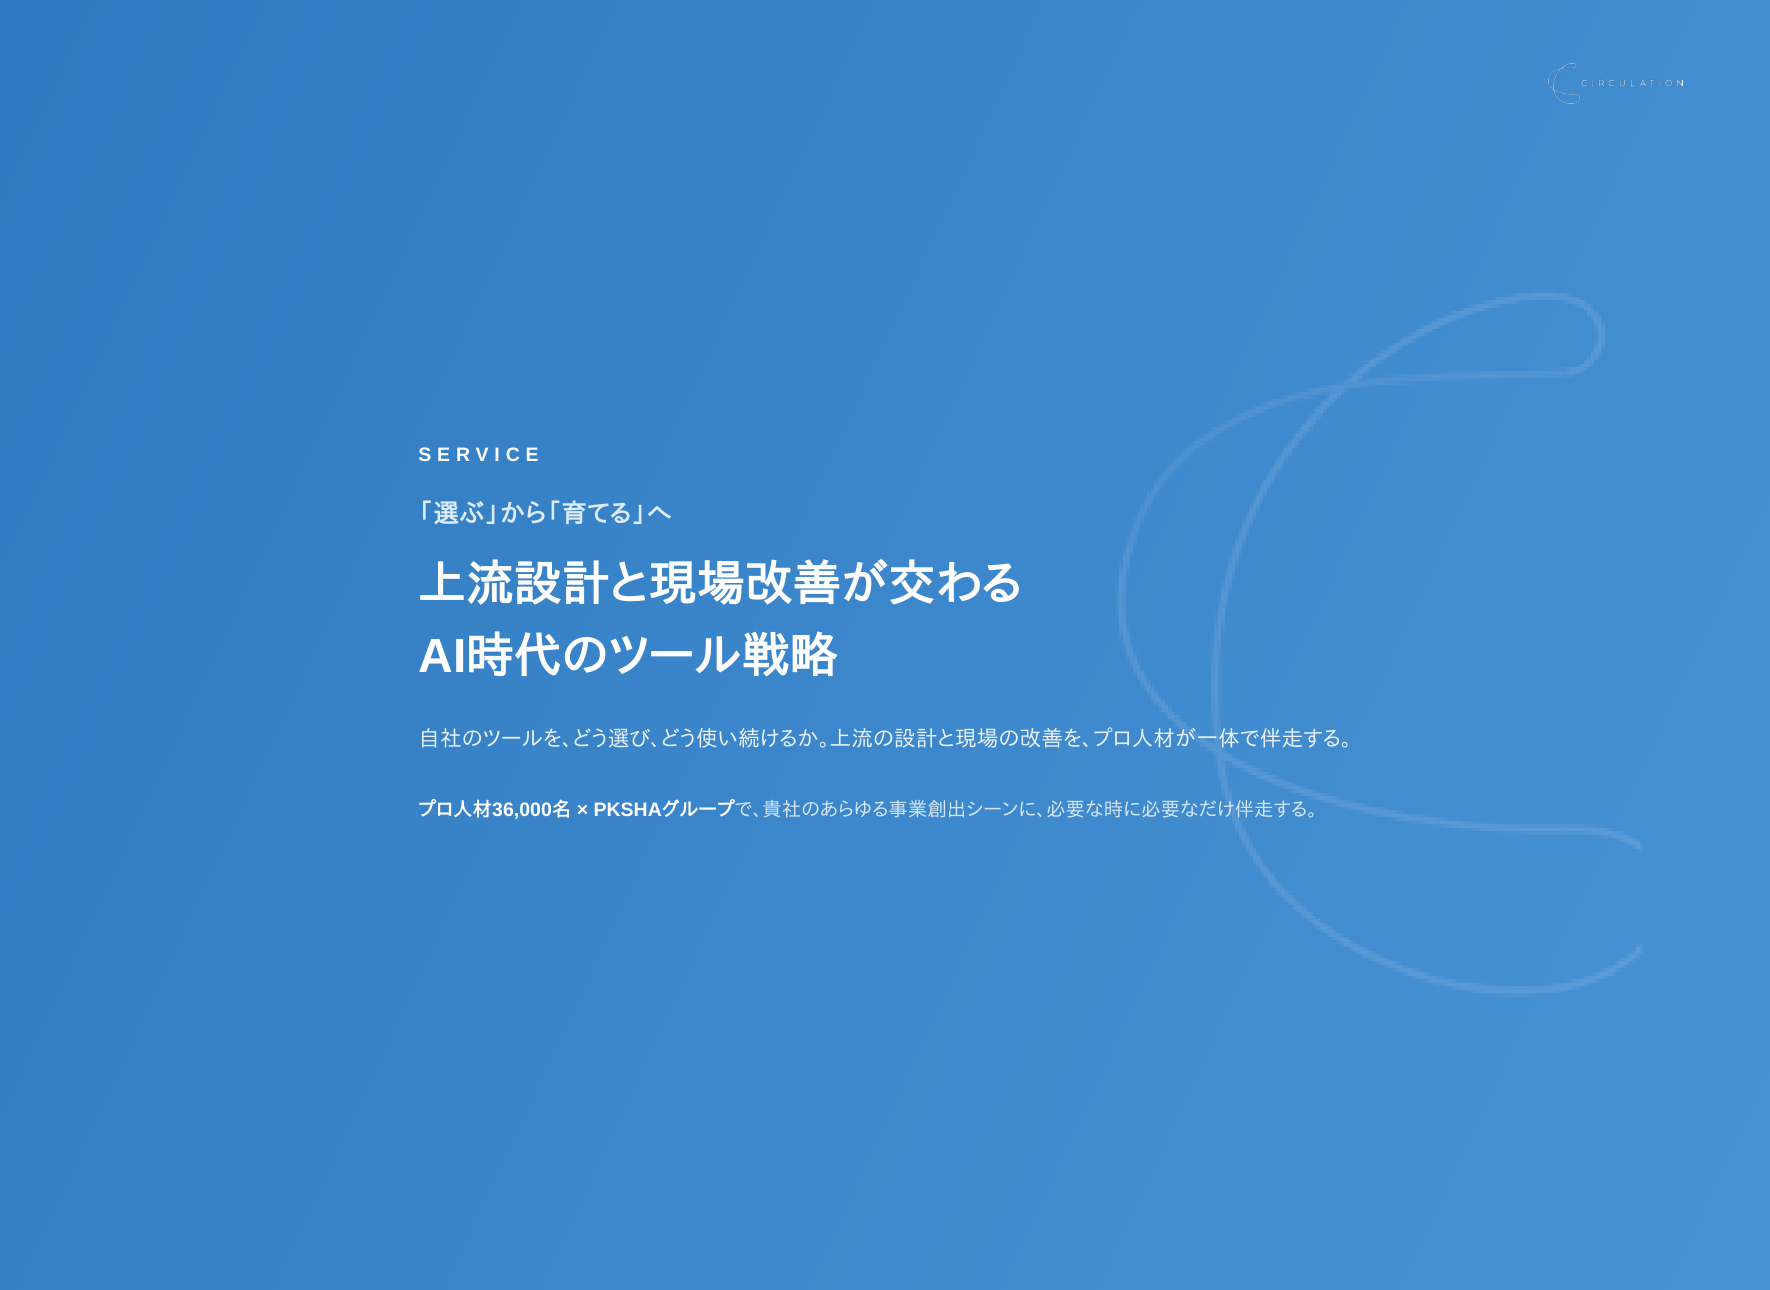
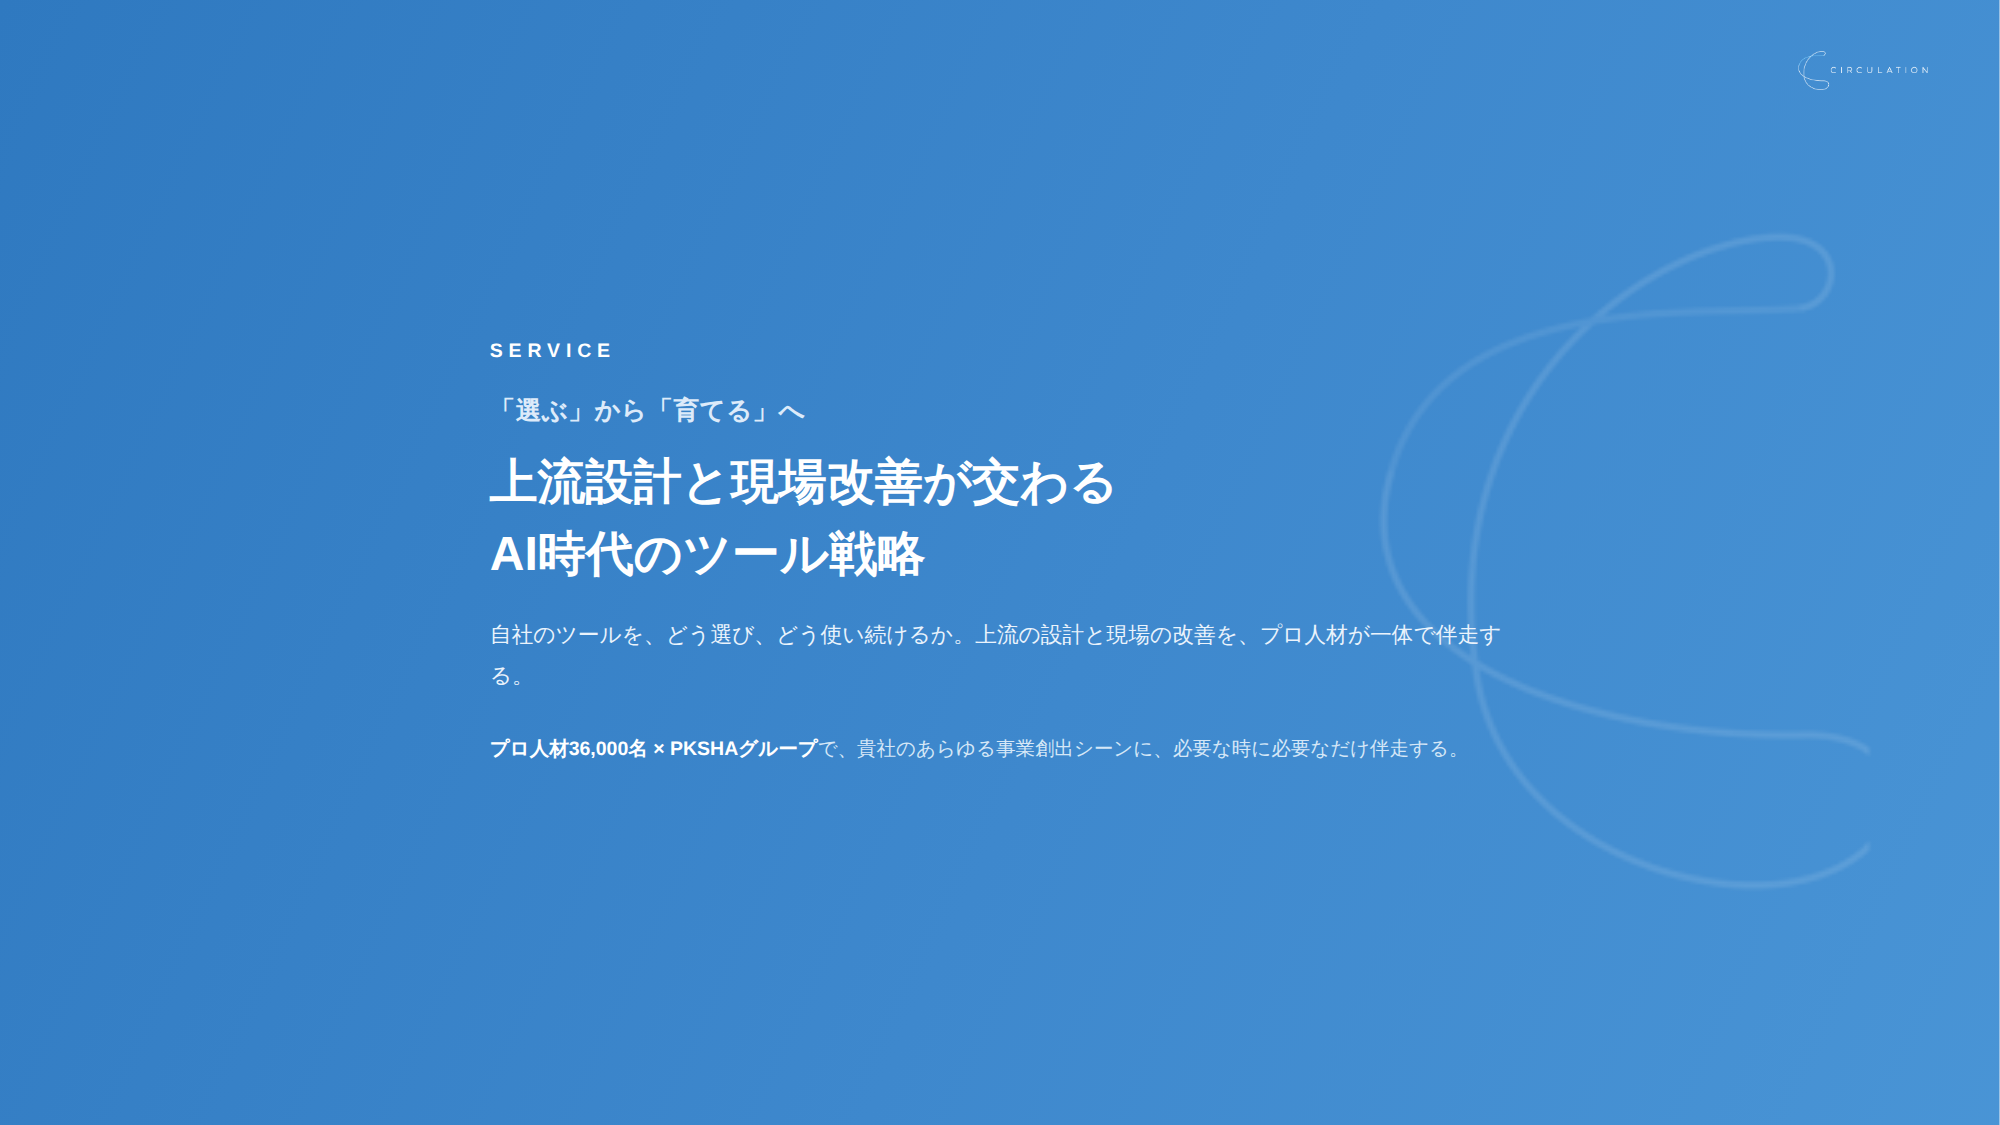
ピックアップ全表紙を実カバーに統一＋FDEの役割位置を修正
- ピックアップ4件のサムネイルを実際の資料表紙（16:9）に統一
  - ツール戦略：新カバーを16:9で再生成
  - AI研修→AX／新規事業／M365 BPR：頂いた表紙画像を反映（slide-*.png 追加）
- アーキ図の役割整理を修正：LAYER 0は「アーキテクト・PM＋セキュリティ・ガバナンス人材」に。
  FDE（フォワードデプロイエンジニア）は特定レイヤーに閉じず、LAYER 0設計〜現場の実装・定着までを縦断する役割として明示（役割一覧の記述と整合）
- PDF再生成・キャッシュ更新（20260716y）

Claude-Session: https://claude.ai/code/session_01Dzqt5iVcJ1FaSJXFn7qHhk

Changed region(s): [[0.2175, 0.3111, 0.5904, 0.5289], [0.2486, 0.6222, 0.7458, 0.6844], [0.2175, 0.56, 0.7458, 0.5911]]

diff --git a/circulation-hot-topics-2026-07.html b/circulation-hot-topics-2026-07.html
@@ -371,6 +371,9 @@
   .arch-sizerow{display:flex;gap:8px;margin-top:8px;font-size:9px;}
   .arch-sizerow .sz{flex:1;background:rgba(255,255,255,.14);border-radius:4px;padding:6px 9px;text-align:left;}
   .arch-sizerow .sz b{display:block;font-size:9px;margin-bottom:2px;color:#BFE0F5;}
+  .arch-fde{display:flex;align-items:center;gap:11px;margin-top:14px;padding:11px 15px;background:var(--blue-tint);border:1px dashed var(--blue-mid);border-left:4px solid var(--blue);border-radius:6px;font-size:11px;color:var(--ink);line-height:1.7;}
+  .arch-fde .afde-tag{flex:none;background:var(--blue);color:#fff;font-size:9px;font-weight:700;letter-spacing:.05em;padding:3px 9px;border-radius:3px;}
+  .arch-fde b{color:var(--navy);}
 
   /* ladder progression connector */
   .ladder-flow{display:flex;align-items:center;justify-content:center;gap:4px;margin:6px 0 10px;}
@@ -611,7 +614,7 @@
 <div class="topbar">
   <div class="crumb">Hot Topics ／ <b>2026年7月号</b>　上流設計と現場改善が交わるAI時代のツール戦略</div>
   <div class="tsp-right">
-    <a class="dl" href="tool_strategy_2607.pdf?v=20260716w" download="CIRCULATION Hot Topics 2026年7月号 - AI時代のツール戦略.pdf">⭳ PDFをダウンロード</a>
+    <a class="dl" href="tool_strategy_2607.pdf?v=20260716y" download="CIRCULATION Hot Topics 2026年7月号 - AI時代のツール戦略.pdf">⭳ PDFをダウンロード</a>
     <img class="tsp-logo" src="images/circu-logo-white.png" alt="CIRCULATION">
   </div>
 </div>
@@ -756,9 +759,9 @@
       <div class="arch-box arch-l0">
         <div class="arch-label">LAYER 0｜要件定義・アーキテクト／ガバナンス設計</div>
         <div class="arch-title">何を作り、どう組むかを定義し、統制の前提を敷く最上流</div>
-        <div class="arch-desc">現場の要件を実装可能な設計へ翻訳する層。アーキテクト・FDE（フォワードデプロイエンジニア）に加え、セキュリティ・ガバナンス人材が、AI利用状況の可視化とガードレール（統制の枠組み）を設計する。EU AI Act など規制対応の前提も、この最上流で組み込む。</div>
+        <div class="arch-desc">何を作り、どう組むかを描く最上流。アーキテクト・PM が全体設計を担い、セキュリティ・ガバナンス人材が、AI利用状況の可視化とガードレール（統制の枠組み）を設計する。EU AI Act など規制対応の前提も、この層で組み込む。</div>
         <div class="arch-tools"><span class="atool">Miro</span><span class="atool">draw.io</span><span class="atool">Notion / Confluence</span></div>
-        <div class="arch-how"><span class="how how-pro">アーキテクト・FDE</span><span class="how how-pro">セキュリティ・ガバナンス人材</span></div>
+        <div class="arch-how"><span class="how how-pro">アーキテクト・PM</span><span class="how how-pro">セキュリティ・ガバナンス人材</span></div>
       </div>
       <div class="arch-trunk"></div><div class="arch-arrow-d"></div>
       <div class="arch-box arch-top">
@@ -803,6 +806,10 @@
           <div class="arch-tools"><span class="atool">Salesforce（SFA/CRM）</span><span class="atool">SAP / Oracle（ERP）</span><span class="atool">ServiceNow</span><span class="atool">Workday</span><span class="atool">kintone</span><span class="atool">Notion</span><span class="atool">Power Apps</span></div>
           <div class="arch-how"><span class="how how-pro">専門プロ（選定・接続）</span><span class="how how-citizen">市民開発（簡易アプリ）</span></div>
         </div>
+      </div>
+      <div class="arch-fde">
+        <span class="afde-tag">縦断ロール</span>
+        <span><b>FDE（フォワードデプロイエンジニア）</b>は特定レイヤーに閉じず、<b>LAYER 0 の設計から現場（LAYER 1〜4）の実装・定着まで</b>を縦断的に担い、要件を「動く形」へ翻訳する。</span>
       </div>
     </div>
     <div class="insight" style="margin-top:12px;"><span class="lbl">POINT</span>期待する効果やプロジェクトのサイズ感に応じて、<b>最適な解決体制（プロ人材の役割編成と、必要に応じたPKSHAの組み合わせ）をご提案します。</b></div>